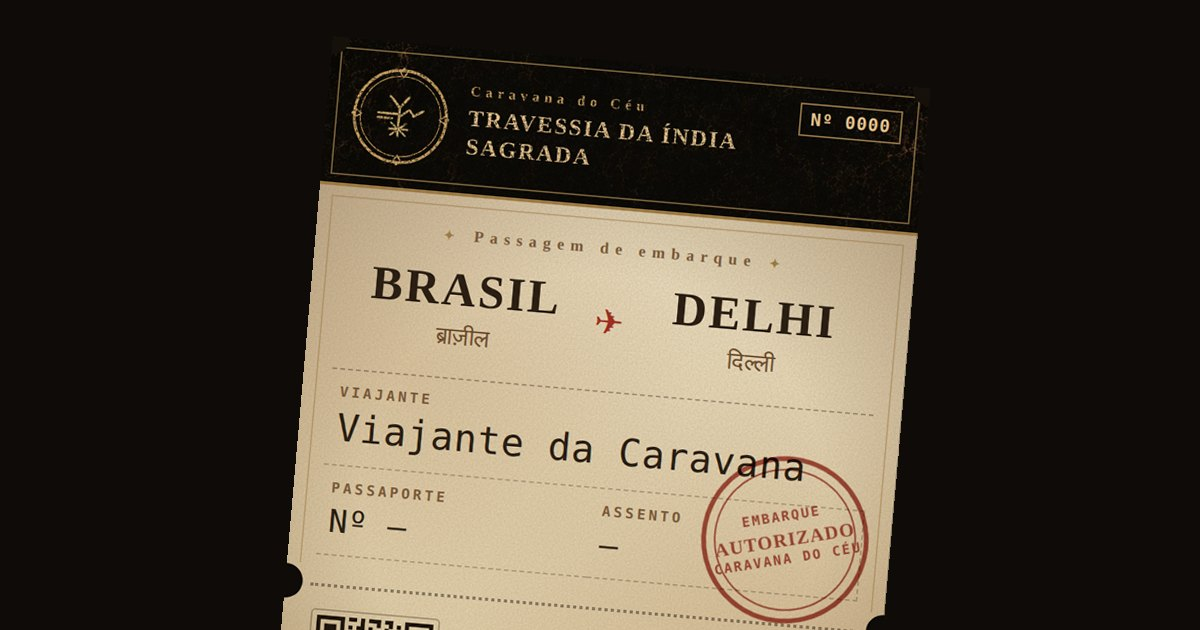
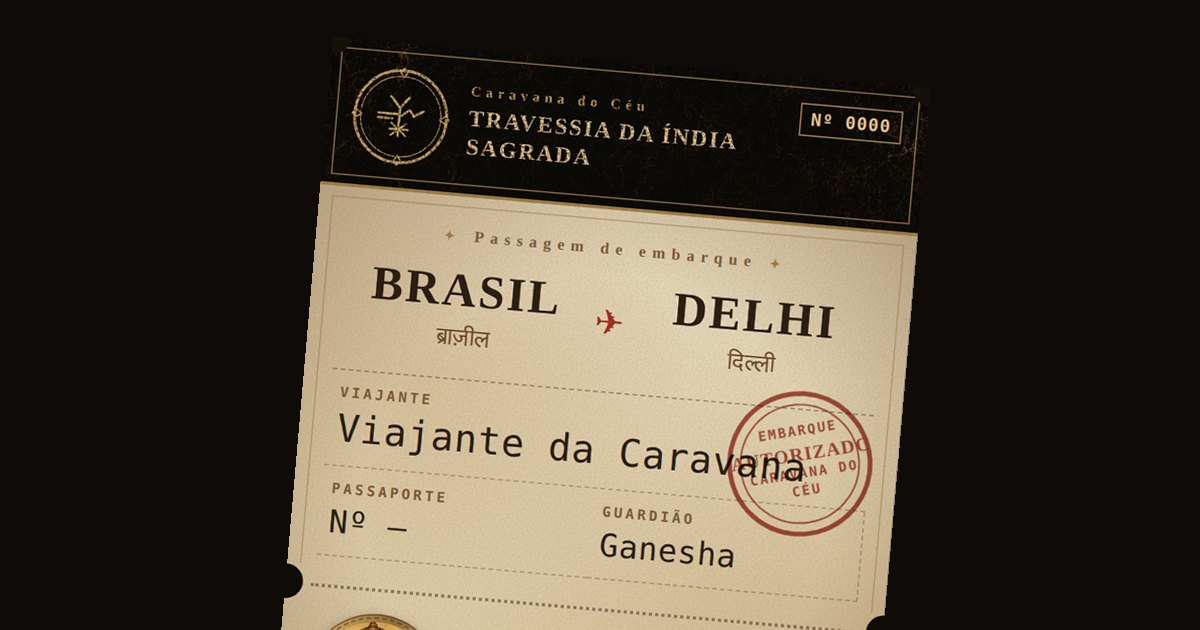
Passagem: Guardião da travessia sorteado pelo número (selo dourado com a divindade e a frase) no lugar do assento e do QR
Claude-Session: https://claude.ai/code/session_019kqAkVGodtTPLnZ4JhFLF3

diff --git a/app/embarque.html b/app/embarque.html
@@ -61,6 +61,11 @@ body{background:var(--fundo) radial-gradient(ellipse at 50% 0%,#241A11,#0E0B08 7
 .picote::after,.picote i{content:"";position:absolute;top:50%;width:22px;height:22px;border-radius:50%;background:var(--fundo);transform:translateY(-50%)}
 .picote::after{right:-11px}.picote i{left:-11px}
 .canhoto{position:relative;display:flex;align-items:center;gap:14px;padding:4px 18px 18px}
+/* selo do guardião da travessia: a divindade num medalhão dourado, como um selo colado no canhoto */
+.guardiao{position:relative;width:86px;height:86px;flex:none;border-radius:50%;padding:5px;background:conic-gradient(from 20deg,#8E6A38,#E2C08A,#9C7A44,#F0D7A6,#8E6A38,#C9A062,#8E6A38);box-shadow:0 3px 8px rgba(0,0,0,.35),inset 0 0 0 1px rgba(60,40,20,.5);transform:rotate(-4deg)}
+.guardiao::before{content:"";position:absolute;inset:2px;border-radius:50%;border:1px dashed rgba(60,40,20,.55)}
+.guardiao img{width:100%;height:100%;border-radius:50%;object-fit:cover;object-position:50% 22%;display:block;box-shadow:inset 0 0 0 2px rgba(60,40,20,.6);filter:sepia(.15) saturate(1.05)}
+.gtexto{display:block;font:700 9px "Courier Prime",monospace;letter-spacing:.2em;color:#7A5A3A;margin-bottom:2px}
 .qr{width:82px;height:82px;flex:none;padding:4px;border-radius:3px;box-shadow:inset 0 0 0 1px rgba(43,31,20,.3)}
 .qr svg{width:100%;height:100%;display:block}.qr svg path,.qr svg rect[fill="black"],.qr svg rect[fill="#000000"]{fill:#1F160E}.qr svg rect[fill="white"],.qr svg rect[fill="#ffffff"]{fill:transparent}
 .canhoto p{margin:0;flex:1;font:400 11px/1.5 "Courier Prime",monospace;color:#4A3522}
@@ -79,7 +84,7 @@ body{background:var(--fundo) radial-gradient(ellipse at 50% 0%,#241A11,#0E0B08 7
 .vert{writing-mode:vertical-rl;transform:rotate(180deg);font:700 12px "Courier Prime",monospace;letter-spacing:.2em;color:var(--carimbo)}
 /* carimbos de tinta vermelha */
 .carimbo{position:absolute;pointer-events:none;color:var(--carimbo);opacity:0;mix-blend-mode:multiply}
-.c1{right:14px;top:146px;width:106px;height:106px;border:3px solid currentColor;border-radius:50%;display:grid;place-items:center;text-align:center;font:700 8.5px "Courier Prime",monospace;letter-spacing:.14em;line-height:1.35;--rot:-14deg;animation:carimba .45s 1.5s cubic-bezier(.3,1.6,.5,1) forwards}
+.c1{right:16px;top:104px;width:92px;height:92px;border:3px solid currentColor;border-radius:50%;display:grid;place-items:center;text-align:center;font:700 8.5px "Courier Prime",monospace;letter-spacing:.14em;line-height:1.35;--rot:-14deg;animation:carimba .45s 1.5s cubic-bezier(.3,1.6,.5,1) forwards}
 .c1::before{content:"";position:absolute;inset:5px;border:1.5px solid currentColor;border-radius:50%}
 .c1 b{display:block;font:700 12px Cinzel,serif;letter-spacing:.06em}
 .c3{right:46px;bottom:8px;font:700 11px "Courier Prime",monospace;letter-spacing:.14em;border-top:2px solid currentColor;border-bottom:2px solid currentColor;padding:2px 4px;color:#3A4A6A;--rot:-4deg;animation:carimba .4s 2s cubic-bezier(.3,1.6,.5,1) forwards}
@@ -128,14 +133,14 @@ body.saindo>*{transition:opacity .5s ease;opacity:0}
       <div class="campos">
         <div class="campo inteiro"><span>Viajante</span><b id="nome">—</b></div>
         <div class="campo"><span>Passaporte</span><b id="pass">Nº —</b></div>
-        <div class="campo"><span>Assento</span><b id="assento">—</b></div>
+        <div class="campo"><span>Guardião</span><b id="gnome">—</b></div>
       </div>
       <div class="carimbo c1"><div>EMBARQUE<br><b>AUTORIZADO</b>CARAVANA DO CÉU</div></div>
     </div>
     <div class="picote"><i></i></div>
     <div class="canhoto">
-      <div class="qr" id="qr" aria-hidden="true"></div>
-      <p>CANHOTO DO VIAJANTE<b id="nome2">—</b>Guarde esta passagem.<br>Ela abre a sua travessia.</p>
+      <div class="guardiao" aria-hidden="true"><img id="gimg" src="/deuses/ganesha.webp" alt=""></div>
+      <p><span class="gtexto">GUARDIÃO DA TRAVESSIA</span><b id="gnome2">—</b><span id="gfrase"></span><br><span style="opacity:.75">Viajante: <span id="nome2">—</span></span></p>
       <span class="vert" id="serie2">Nº 0000</span>
       <div class="carimbo c3">ॐ SHANTI</div>
     </div>
@@ -153,7 +158,6 @@ body.saindo>*{transition:opacity .5s ease;opacity:0}
   <p>Toque no lacre para ingressar no mundo Caravana.</p>
 </div>
 
-<script src="/qrcode.min.js"></script>
 <script>
 // o link de cada pessoa: /embarque/ana-paula/07  (ou ?n=Ana%20Paula&p=07&a=12)
 (function () {
@@ -162,12 +166,11 @@ body.saindo>*{transition:opacity .5s ease;opacity:0}
   const bruto = q.get("n") || (i >= 0 && partes[i + 1]) || "";
   const nome = bruto.replace(/[-_+]+/g, " ").trim().replace(/\S+/g, w => w.charAt(0).toUpperCase() + w.slice(1));
   const num = (q.get("p") || (i >= 0 && partes[i + 2]) || "").replace(/\D/g, "");
-  const assento = q.get("a") || (i >= 0 && partes[i + 3]) || num;
+  if (i >= 0 && partes[i + 3] && !q.get("g")) q.set("g", partes[i + 3]);
   const pad = n => String(n || 0).padStart(2, "0");
   document.getElementById("nome").textContent = nome || "Viajante da Caravana";
   document.getElementById("nome2").textContent = nome ? nome.split(" ")[0].toUpperCase() : "VIAJANTE";
   document.getElementById("pass").textContent = num ? "Nº " + pad(num) : "Nº —";
-  document.getElementById("assento").textContent = assento ? pad(assento) : "—";
   const serie = "Nº " + String(num || 0).padStart(4, "0");
   document.getElementById("serie").textContent = serie; document.getElementById("serie2").textContent = serie;
   if (nome) document.title = "Passagem de " + nome.split(" ")[0] + " · Caravana do Céu";
@@ -176,9 +179,15 @@ body.saindo>*{transition:opacity .5s ease;opacity:0}
   const k = new URLSearchParams(location.hash.slice(1)).get("k");
   let palavra = ""; try { if (k) palavra = decodeURIComponent(escape(atob(k.replace(/-/g, "+").replace(/_/g, "/")))); } catch (e) {}
   if (palavra) raspadinha(palavra);
-  // QR da própria passagem (para abrir em outro aparelho ou no papel)
-  try { const qr = qrcode(0, "M"); qr.addData(location.href); qr.make();
-    document.getElementById("qr").innerHTML = qr.createSvgTag({ cellSize: 3, margin: 0, scalable: true }); } catch (e) {}
+  // guardião da travessia: escolhido pela líder no link, ou sorteado pelo número do passaporte
+  const G = [["ganesha", "Ganesha", "abre os caminhos"], ["hanuman", "Hanuman", "a coragem e a devoção"], ["lakshmi", "Lakshmi", "a abundância e a graça"], ["shiva", "Shiva", "a transformação"],
+    ["durga", "Durga", "a força que protege"], ["saraswati", "Saraswati", "a sabedoria e as artes"], ["krishna", "Krishna", "o amor e a alegria"], ["ganga", "Ganga", "a purificação"],
+    ["parvati", "Parvati", "a devoção e o amor"], ["vishnu", "Vishnu", "a preservação e o equilíbrio"], ["surya", "Surya", "a luz e a vitalidade"], ["kali", "Kali", "o tempo que liberta"], ["brahma", "Brahma", "a criação"]];
+  const pedido = String(q.get("g") || "").toLowerCase().normalize("NFD").replace(/[\u0300-\u036f]/g, "");
+  const g = G.find(x => x[0] === pedido) || G[(+num || 0) % 8];
+  document.getElementById("gimg").src = "/deuses/" + g[0] + ".webp";
+  document.getElementById("gnome").textContent = g[1]; document.getElementById("gnome2").textContent = g[1].toUpperCase();
+  document.getElementById("gfrase").textContent = g[2];
   document.getElementById("embarcar").addEventListener("click", () => {
     // o bilheteiro picota a passagem (um furo no canhoto) e a pessoa segue para o app
     const bl = document.querySelector(".bilhete"), ca = document.querySelector(".canhoto"), f = document.createElement("span");

diff --git a/app/passagens.html b/app/passagens.html
@@ -29,13 +29,13 @@ button.claro{background:transparent;color:#E2C08A;box-shadow:inset 0 0 0 1px rgb
 </style>
 </head><body><main>
 <h1>Passagens da Caravana</h1>
-<p class="sub">Escreva uma pessoa por linha: nome e número do passaporte, separados por vírgula. Se quiser um assento diferente do número, ponha um terceiro número.</p>
+<p class="sub">Escreva uma pessoa por linha: nome e número do passaporte, separados por vírgula. Se quiser escolher o guardião da pessoa, ponha o nome dele depois (Ganesha, Hanuman, Lakshmi, Shiva, Durga, Saraswati, Krishna, Ganga, Parvati, Vishnu, Surya, Kali, Brahma). Sem guardião, ele é sorteado pelo número.</p>
 <label for="pal">Palavra-chave</label>
 <input id="pal" type="text" autocomplete="off" autocapitalize="none" placeholder="a palavra que abre o app">
 <p class="dica">Ela vai escondida em cada passagem, na raspadinha do canhoto. Fica guardada só neste celular.</p>
 <label for="nomes">Viajantes</label>
-<textarea id="nomes" placeholder="Ana Paula, 7&#10;João Pedro, 3&#10;Mariana, 12, 21"></textarea>
-<p class="dica">Exemplo: “Ana Paula, 7” gera a passagem Nº 07, assento 07.</p>
+<textarea id="nomes" placeholder="Ana Paula, 7&#10;João Pedro, 3, Hanuman&#10;Mariana, 12"></textarea>
+<p class="dica">Exemplo: “João Pedro, 3, Hanuman” gera a passagem Nº 03 com Hanuman de guardião.</p>
 <button id="gerar" type="button">Gerar passagens</button>
 <div class="lista" id="lista"></div>
 </main>
@@ -53,11 +53,11 @@ function gera() {
   lista.textContent = "";
   for (const linha of campo.value.split("\n")) {
     const [nome, num, ass] = linha.split(",").map(x => (x || "").trim()); if (!nome) continue;
-    const n = (num || "").replace(/\D/g, ""), a = (ass || "").replace(/\D/g, "");
-    const link = BASE + "/embarque/" + slug(nome).replace(/[\/?#%&]/g, "") + (n ? "/" + n.padStart(2, "0") : "") + (a ? "/" + a.padStart(2, "0") : "") + (pal.value.trim() ? "#k=" + esconde(pal.value) : "");
+    const n = (num || "").replace(/\D/g, ""), a = (ass || "").trim().toLowerCase().normalize("NFD").replace(/[\u0300-\u036f]/g, "").replace(/[^a-z]/g, "");
+    const link = BASE + "/embarque/" + slug(nome).replace(/[\/?#%&]/g, "") + (n ? "/" + n.padStart(2, "0") : "") + (a ? "/" + a : "") + (pal.value.trim() ? "#k=" + esconde(pal.value) : "");
     const msg = nome.split(" ")[0] + ", sua passagem para a Índia chegou ✈\n" + link;
     const it = document.createElement("div"); it.className = "item";
-    const t = document.createElement("b"); t.textContent = nome + (n ? " · Nº " + n.padStart(2, "0") : "");
+    const t = document.createElement("b"); t.textContent = nome + (n ? " · Nº " + n.padStart(2, "0") : "") + (a ? " · " + a.charAt(0).toUpperCase() + a.slice(1) : "");
     const pre = document.createElement("pre"); pre.textContent = msg;
     const ac = document.createElement("div"); ac.className = "acoes";
     const b1 = document.createElement("button"); b1.type = "button"; b1.textContent = "Copiar mensagem"; b1.onclick = () => copia(msg, b1);

diff --git a/app/index.html b/app/index.html
@@ -7,7 +7,7 @@
 <link rel="icon" href="img/icone-192.png">
 <link rel="apple-touch-icon" href="img/icone-192.png">
 <link rel="manifest" href="manifest.webmanifest">
-<script>window.__VERSAO = "10/10 · 14:54";</script>
+<script>window.__VERSAO = "10/10 · 14:56";</script>
 <script src="config.js"></script>
 <script src="shim.js"></script>
 <style>*,*::before,*::after{box-sizing:border-box}html,body{margin:0;height:100%}</style>

diff --git a/app/sw.js b/app/sw.js
@@ -1,4 +1,4 @@
-// marca: 8367b9bc8d
+// marca: d8a60c9a9d
 // Guarda o app inteiro no celular para abrir mesmo sem sinal (templo, estrada, wi-fi fraco do hotel).
 const CACHE = "caravana-v6", EXTRA = "caravana-ext", MAPA = "caravana-mapa";
 // lista de arquivos gerada pelo tools/gerar-site.py
